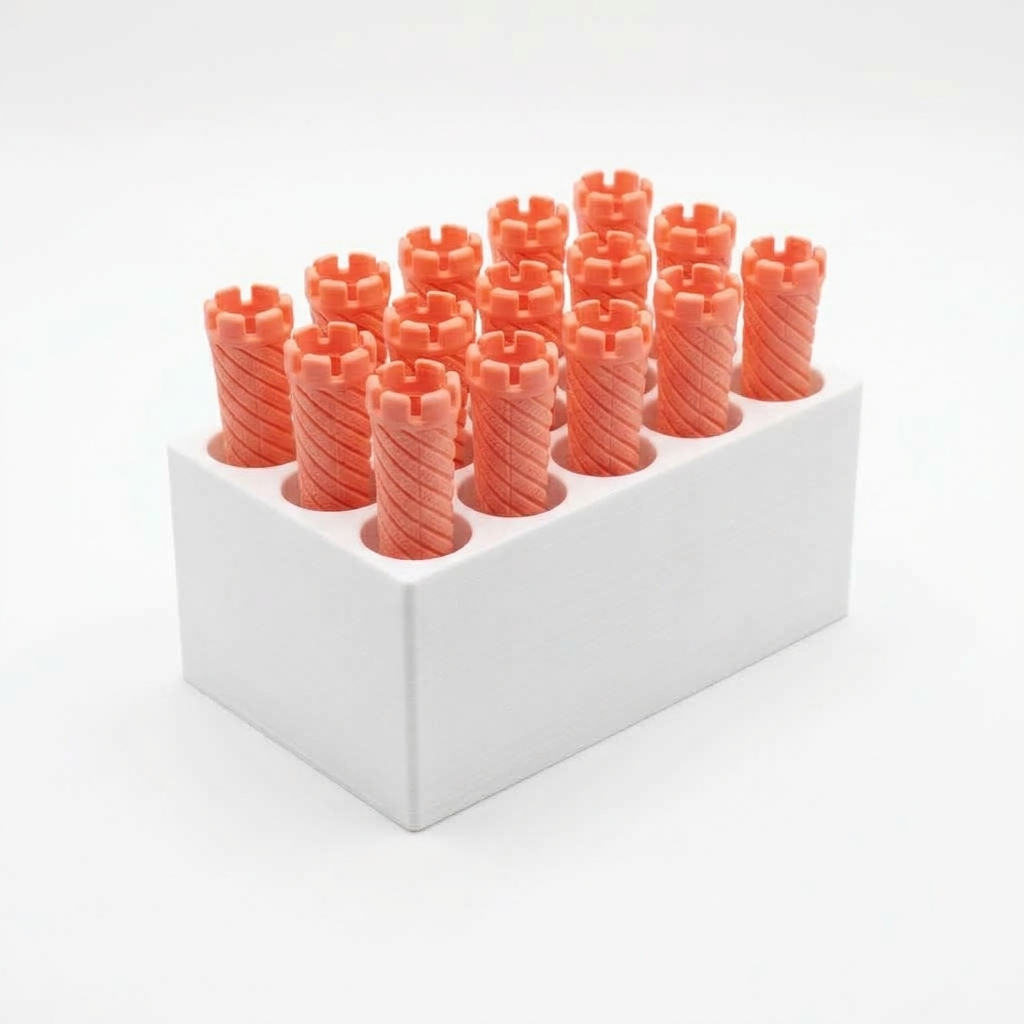
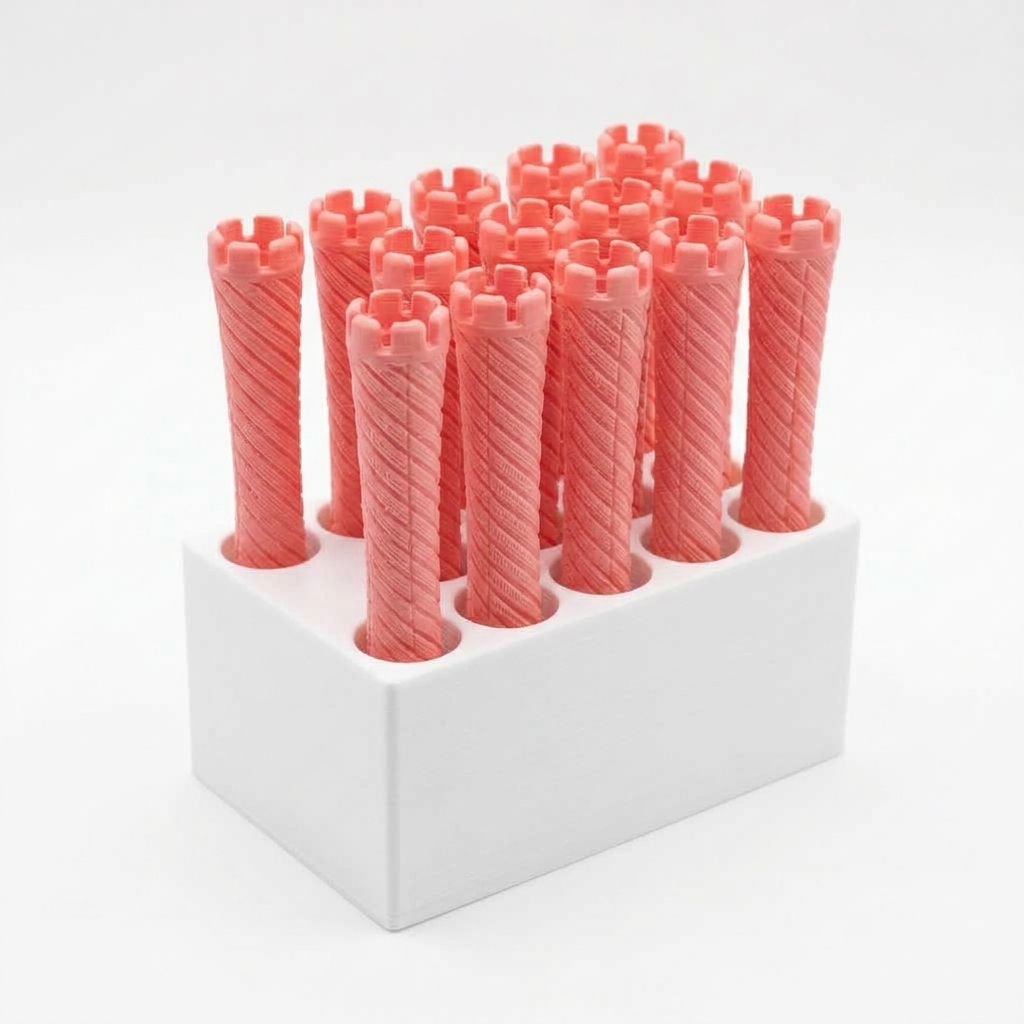
fix: オールパーパス用ロッド立ての2枚目写真でロングロッドの飛び出し高さ・色合いを実物に忠実に修正

diff --git a/js/app.js b/js/app.js
@@ -37,7 +37,7 @@ const FALLBACK_PRODUCTS = [
         "angle": "Perspective"
       },
       {
-        "url": "assets/images/item-matrix-2.jpg?v=5",
+        "url": "assets/images/item-matrix-2.jpg?v=6",
         "label": "ロッド収納イメージ（オレンジのロング×15本）",
         "angle": "With Rods"
       },
